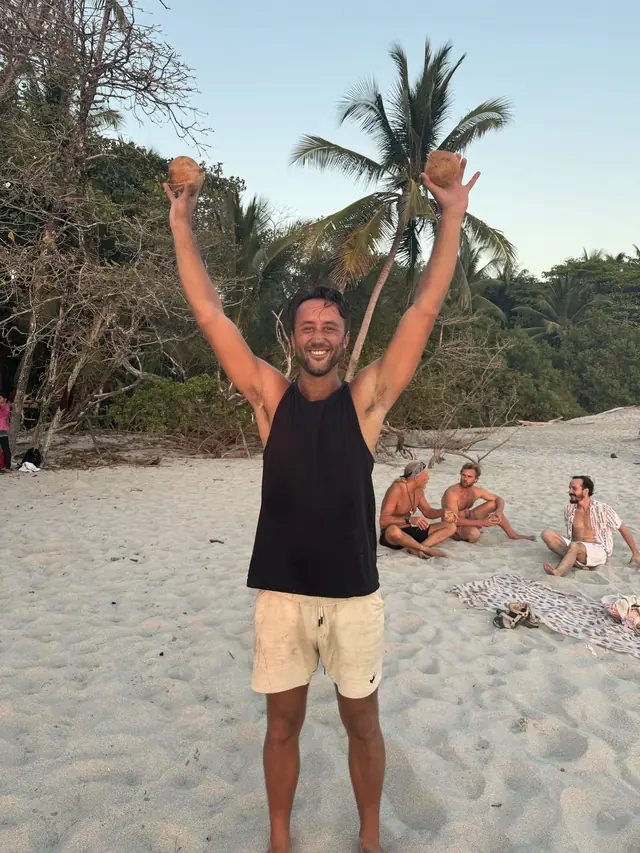
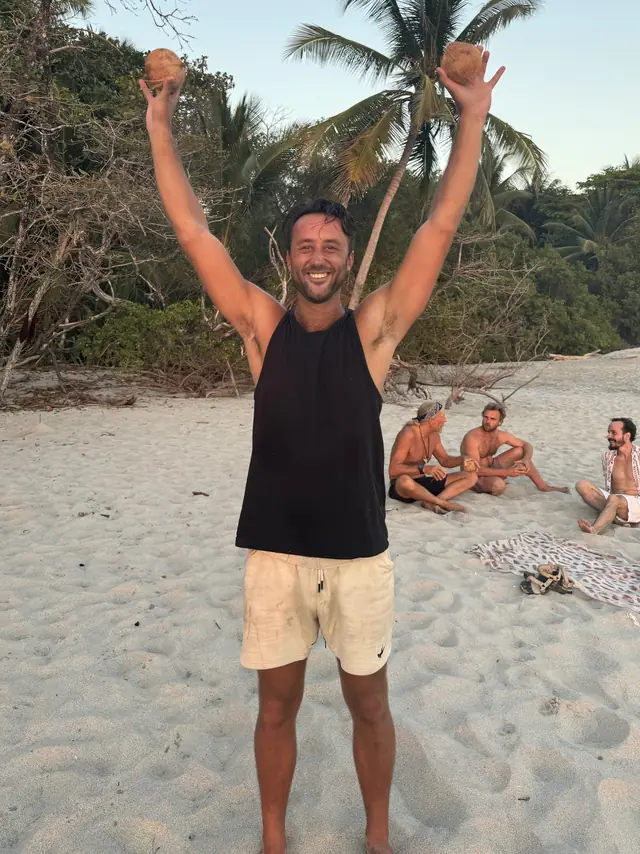
Tighter crop on the coconuts photo; before-list copy

diff --git a/index.html b/index.html
@@ -268,14 +268,14 @@
               <li class="flex items-baseline gap-4"><span class="suit text-sky/70">&#9824;</span><span>Cashed the biggest tournament score of my life</span></li>
               <li class="flex items-baseline gap-4"><span class="suit text-sky/70">&#9829;</span><span>Feeling numb, disconnected, &amp; unhealthy</span></li>
               <li class="flex items-baseline gap-4"><span class="suit text-sky/70">&#9830;</span><span>Unable to smile easily</span></li>
-              <li class="flex items-baseline gap-4"><span class="suit text-sky/70">&#9827;</span><span>Longing for new friendships</span></li>
+              <li class="flex items-baseline gap-4"><span class="suit text-sky/70">&#9827;</span><span>Longing to feel alive</span></li>
             </ul>
           </figcaption>
         </figure>
 
         <figure class="reveal" style="transition-delay:.15s">
           <div class="relative aspect-[3/4] overflow-hidden bg-deep2 grade">
-            <img loading="lazy" decoding="async" src="images/opt/beau-alive-900.jpg" srcset="images/opt/beau-alive-400.webp 400w, images/opt/beau-alive-640.webp 640w, images/opt/beau-alive-720.webp 720w, images/opt/beau-alive-900.webp 900w" sizes="(min-width: 640px) 28rem, 92vw" width="1400" height="1867" alt="Beau on the beach in Costa Rica, arms raised" class="h-full w-full object-cover" onerror="this.style.display='none'" />
+            <img loading="lazy" decoding="async" src="images/opt/beau-alive-900.jpg" srcset="images/opt/beau-alive-400.webp 400w, images/opt/beau-alive-640.webp 640w, images/opt/beau-alive-720.webp 720w, images/opt/beau-alive-900.webp 900w" sizes="(min-width: 640px) 28rem, 92vw" width="1212" height="1617" alt="Beau on the beach in Costa Rica, arms raised" class="h-full w-full object-cover" onerror="this.style.display='none'" />
             <span class="pointer-events-none absolute inset-0 border border-cream/20" aria-hidden="true"></span>
           </div>
           <figcaption class="mt-7">
